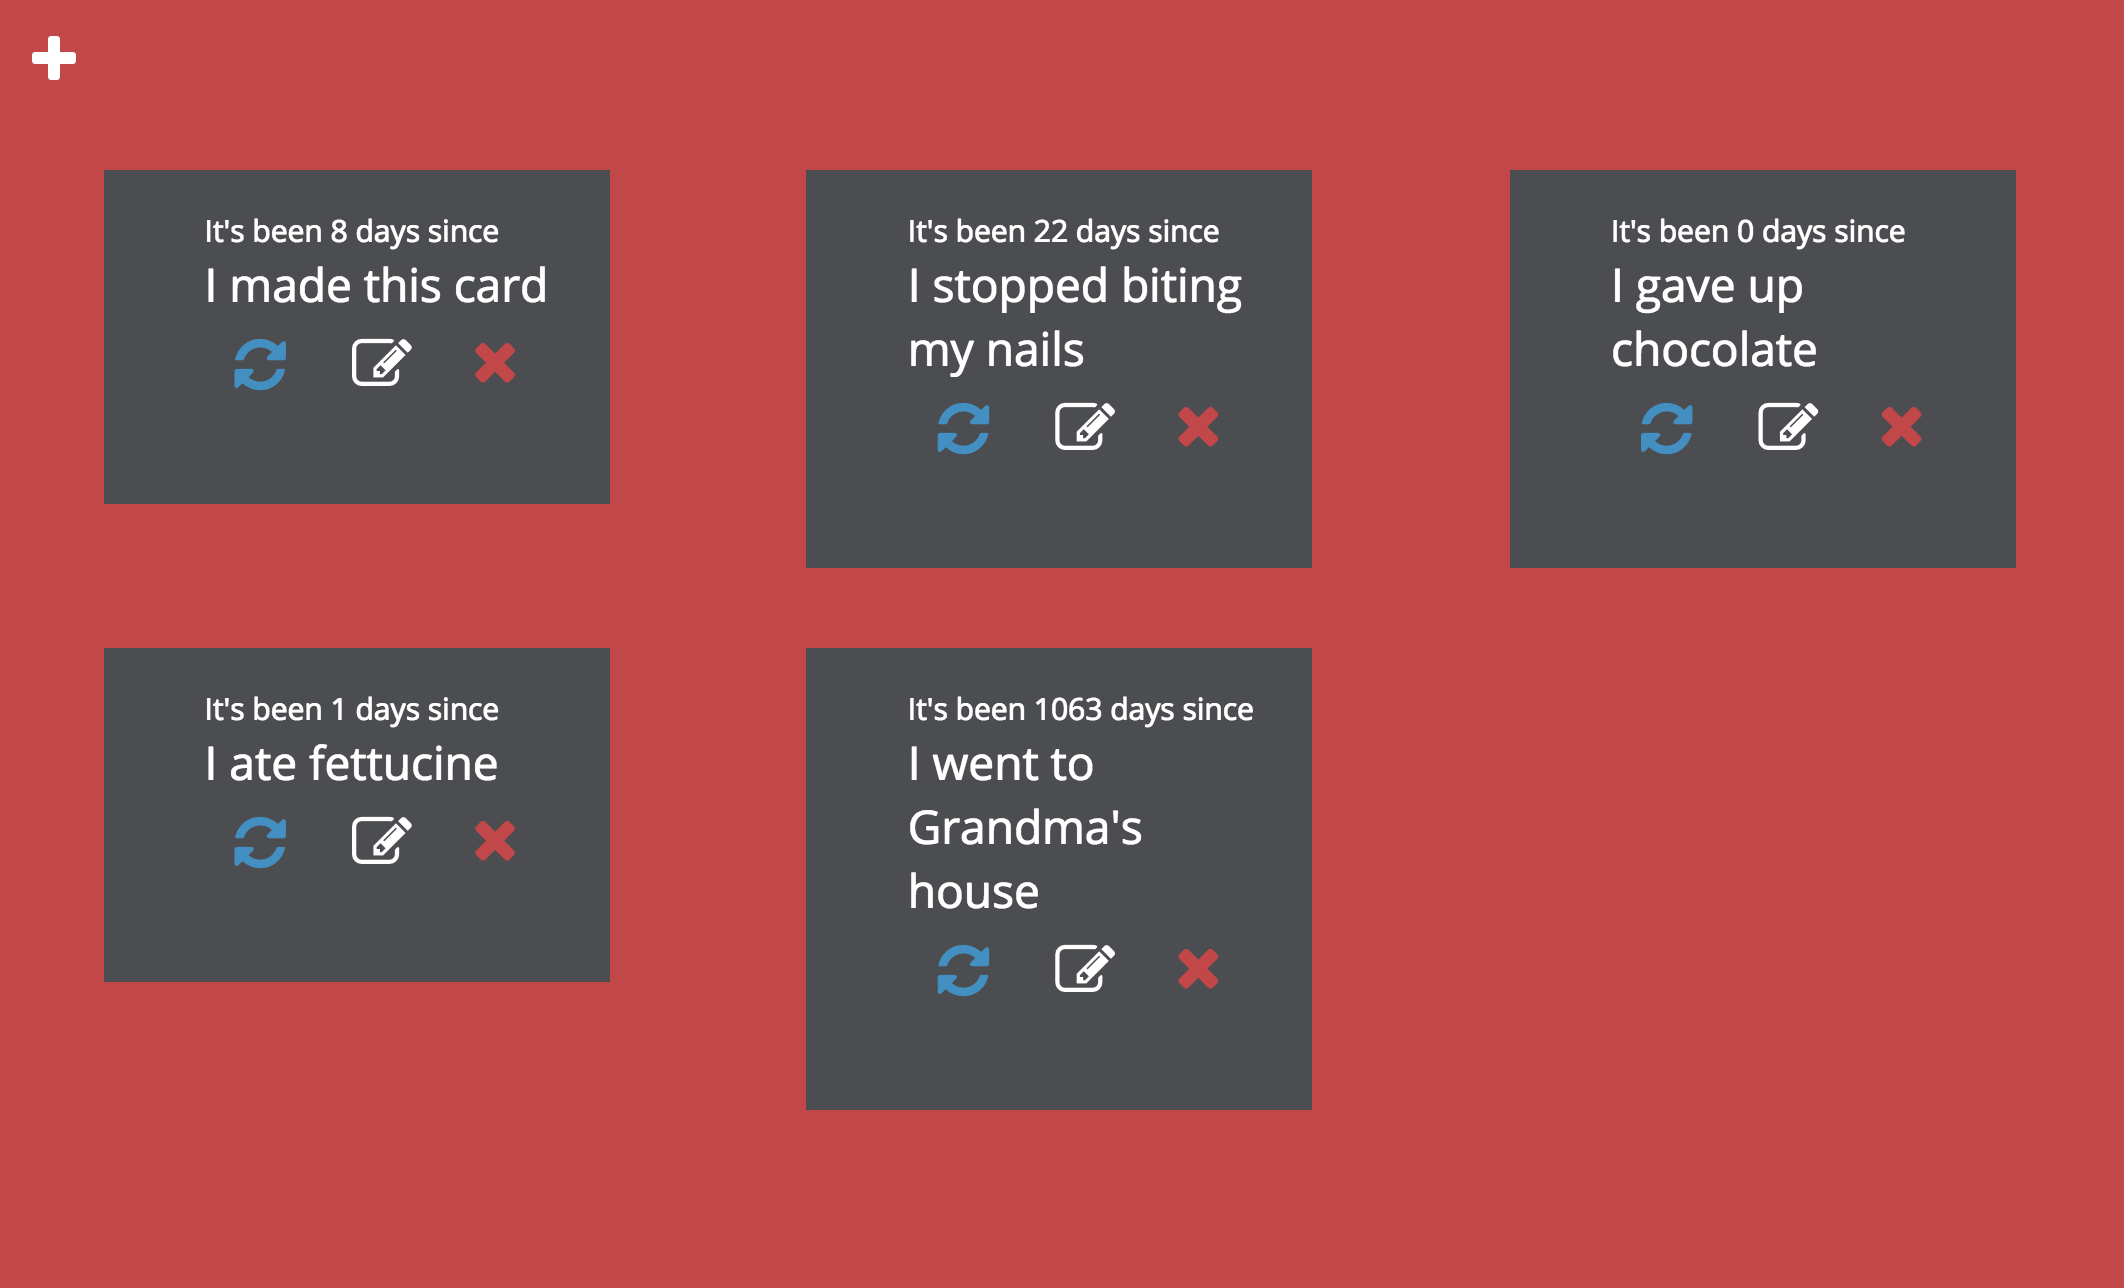
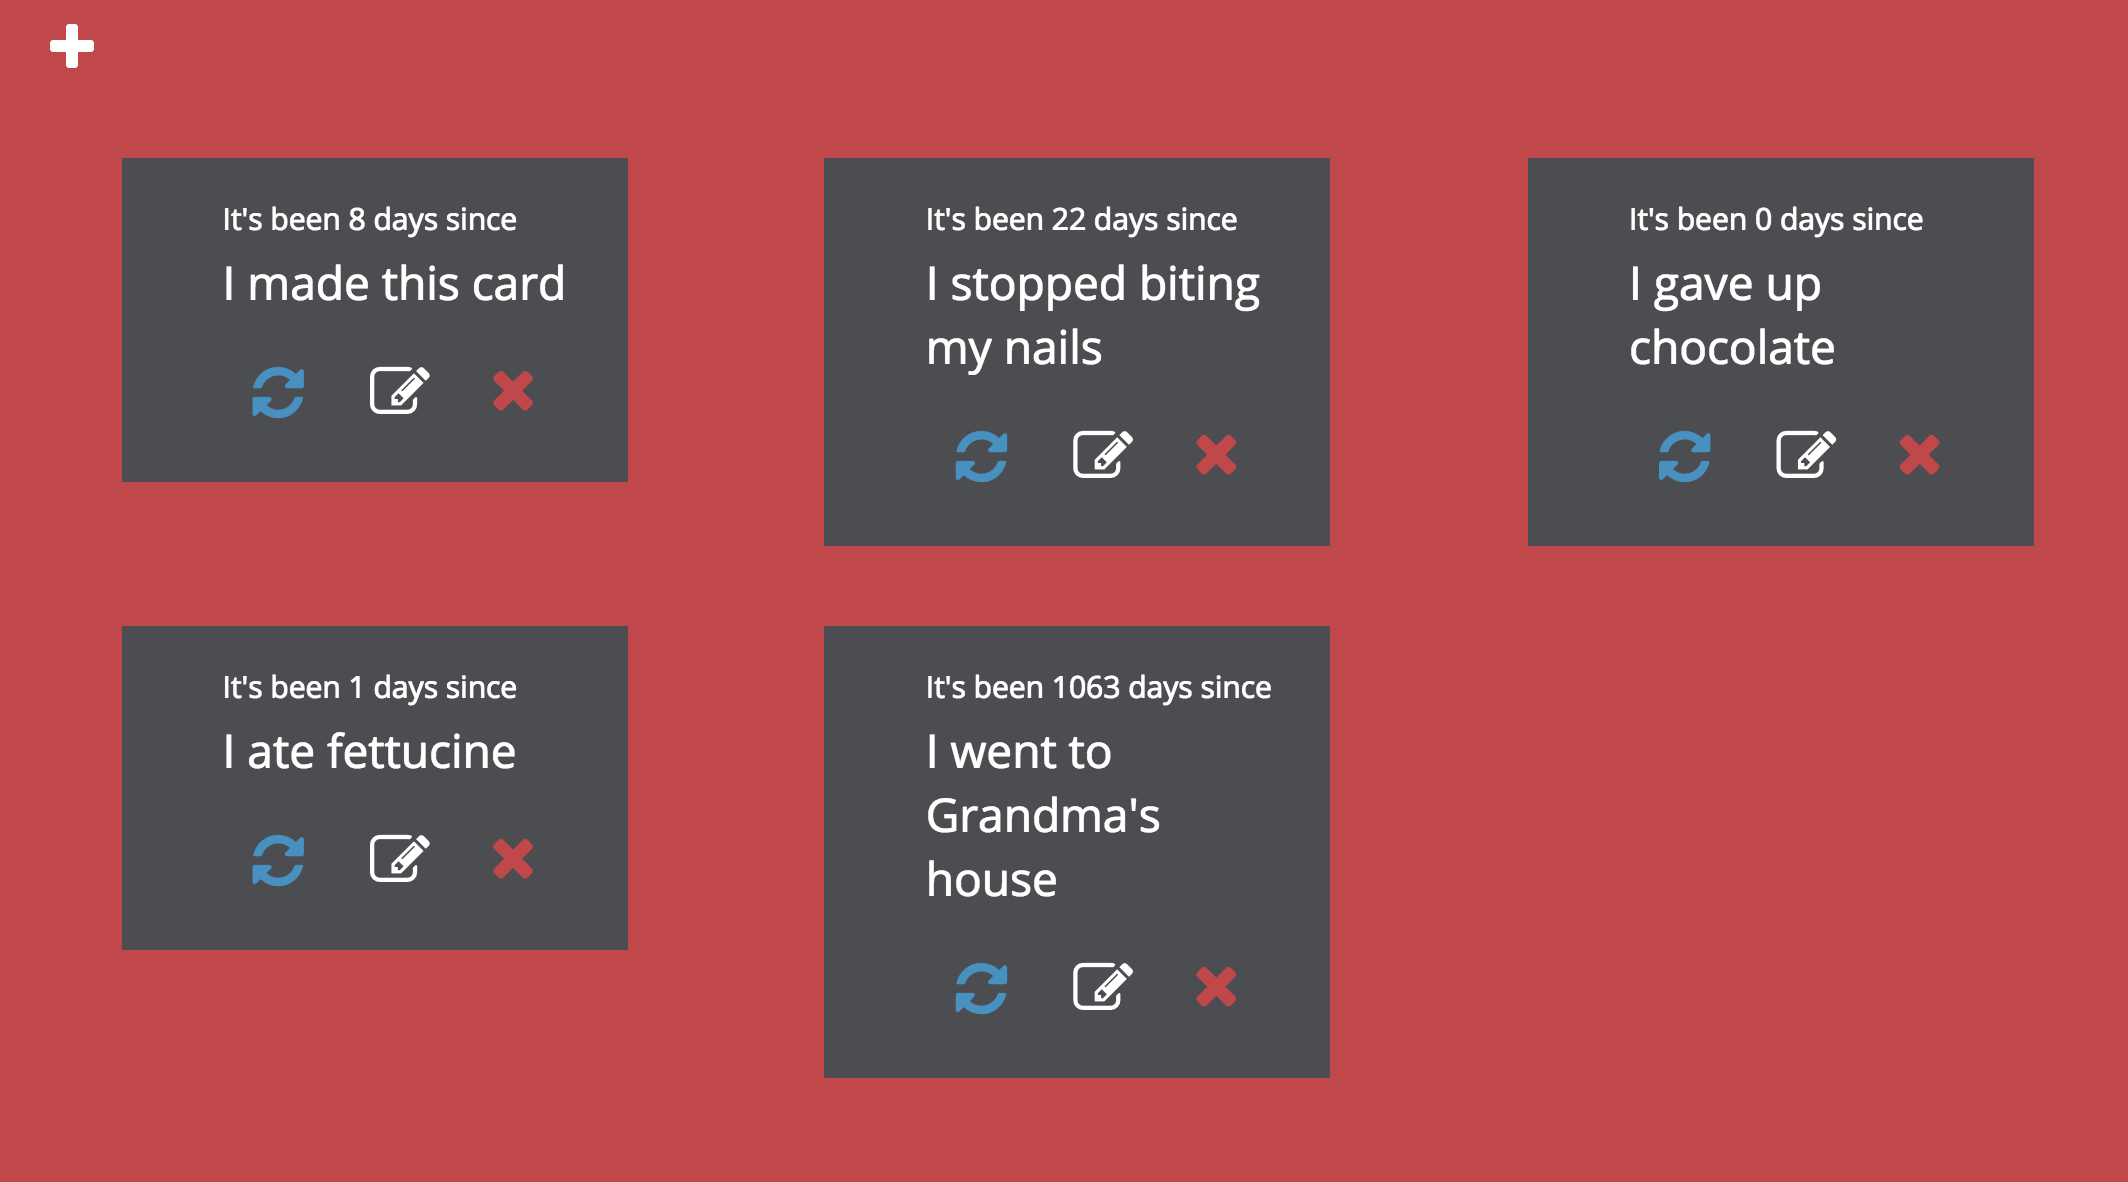
Adjusted styling, image

diff --git a/app/assets/stylesheets/application.css b/app/assets/stylesheets/application.css
@@ -16,6 +16,14 @@
 
  */
 
+
+
+.since_name {
+  font-family: 'Open Sans';
+  font-size:40px;
+  color: #fff;
+}
+
 body {
   background-color: #C24749;
 }
@@ -26,6 +34,12 @@ body {
   font-family: 'Open Sans', sans-serif;
 }
 
+
+.buttons {
+  margin-top:15px;
+}
+
+
 .sign_out {
   float:right;
   margin-top:1%;
@@ -33,7 +47,7 @@ body {
 }
 
 .sign_out_button {
-  color: #000;
+  color: #fff;
 }
 
 }
@@ -100,7 +114,6 @@ body {
 
 .modal-content {
   width:300px;
-  height:400px;
 }
 
 .modal {
@@ -126,7 +139,7 @@ body {
   background-color: #4C4D50;
   width:300px;
   height:auto;
-  padding: 20px 20px 55px 20%;
+  padding: 20px 20px 30px 20%;
   word-wrap: break-word;
   display: table-cell;
 }
@@ -156,6 +169,7 @@ body {
 
 .since_I {
   font-size:23px;
+  margin-top:5px;
 }
 
 .edit_crux {
